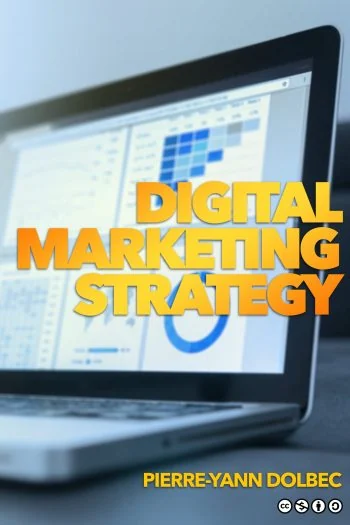
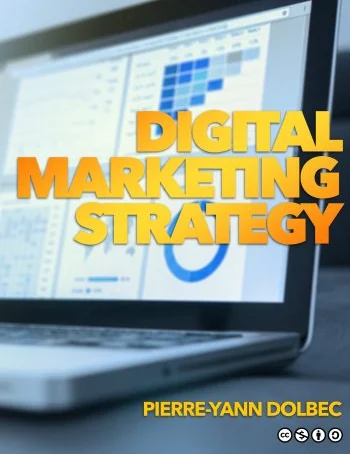
Teaching: crop the Digital Marketing Strategy cover to match the other cover
Top 71 px removed so both covers share one shape and sit at equal height.

Claude-Session: https://claude.ai/code/session_019wVdqsEFeF5Lgx2HjDF92J

diff --git a/fr/teaching/index.html b/fr/teaching/index.html
@@ -39,7 +39,7 @@
 <h1 class="page">Enseignement</h1>
 <div class="page-intro"><p>J&#x27;enseigne le marketing comme une pratique. Mes cours développent des compétences concrètes tout en amenant les étudiants à réfléchir de façon critique aux dimensions sociales et culturelles du comportement des consommateurs : ce que l&#x27;on met en marché, pourquoi, et avec quelles conséquences.</p><p>Les étudiants se préparent avant le cours grâce à des lectures, des balados, des vidéos et des transcriptions, afin que le temps en classe serve à l&#x27;application. Chaque séance s&#x27;ouvre sur des questions qui vérifient la compréhension, puis passe à des exercices fondés sur des cas réels et fictifs : analyser des campagnes numériques, développer des personas, bâtir des stratégies de contenu. Dans mon cours de marketing numérique, les étudiants créent des sites web et des campagnes pour le prélancement de produits fictifs ; certains ont attiré des milliers d&#x27;abonnés ou l&#x27;attention des médias.</p><p>Je recueille de la rétroaction pendant et après chaque session, et j&#x27;explique aux étudiants comment leurs commentaires ont modifié le cours.</p></div>
 <h2>Manuels libres d'accès</h2>
-<div class="books"><div class="book"><img width="350" height="525" src="/assets/img/dms-cover.webp" alt="Couverture de Digital Marketing Strategy" loading="lazy" style="width:100%;height:auto;border:1px solid var(--line)"><div><div class="kicker">2021</div><h3 style="margin-top:6px"><span lang="en">Digital Marketing Strategy</span></h3>
+<div class="books"><div class="book"><img width="350" height="454" src="/assets/img/dms-cover.webp" alt="Couverture de Digital Marketing Strategy" loading="lazy" style="width:100%;height:auto;border:1px solid var(--line)"><div><div class="kicker">2021</div><h3 style="margin-top:6px"><span lang="en">Digital Marketing Strategy</span></h3>
 <p style="color:#333;font-size:16px">Un manuel libre et gratuit qui donne aux étudiants un cadre pour planifier et mener le marketing en ligne. Plus de 3 000 étudiants l&#x27;ont utilisé dans plusieurs universités en 2024, avec balados, vidéos et transcriptions.</p>
 <a class="btn o" href="https://opentextbooks.concordia.ca/digitalmarketing/" target="_blank" rel="noopener">Lire gratuitement en ligne&nbsp;↗<span class="sr-only"> (s’ouvre dans un nouvel onglet)</span></a></div></div><div class="book"><img width="480" height="622" src="/assets/img/ai-cover.webp" alt="Couverture de Artificial Intelligence and Marketing" loading="lazy" style="width:100%;height:auto;border:1px solid var(--line)"><div><div class="kicker">2024</div><h3 style="margin-top:6px"><span lang="en">Artificial Intelligence and Marketing</span></h3>
 <p style="color:#333;font-size:16px">Un manuel gratuit sur le fonctionnement de l&#x27;intelligence artificielle et son usage en marketing, écrit pour les étudiants en gestion et les gestionnaires.</p>

diff --git a/teaching/index.html b/teaching/index.html
@@ -39,7 +39,7 @@
 <h1 class="page">Teaching</h1>
 <div class="page-intro"><p>I teach marketing as a practice. My courses build real-world marketing skills while asking students to think critically about the social and cultural side of consumer behaviour: what we market, why, and with what consequences.</p><p>Students prepare before class through readings, podcasts, videos and transcripts, so that class time goes to application. Each session opens with questions that check understanding, then moves to exercises built on real and fictional cases, such as analyzing digital campaigns, developing consumer personas and building content strategies. In my digital marketing course, students create websites and campaigns for fictional product pre-launches; some have gained thousands of social media followers or press attention.</p><p>I collect feedback during and after each semester, and I tell students how their input changed the course.</p></div>
 <h2>Open textbooks</h2>
-<div class="books"><div class="book"><img width="350" height="525" src="/assets/img/dms-cover.webp" alt="Cover of Digital Marketing Strategy" loading="lazy" style="width:100%;height:auto;border:1px solid var(--line)"><div><div class="kicker">2021</div><h3 style="margin-top:6px">Digital Marketing Strategy</h3>
+<div class="books"><div class="book"><img width="350" height="454" src="/assets/img/dms-cover.webp" alt="Cover of Digital Marketing Strategy" loading="lazy" style="width:100%;height:auto;border:1px solid var(--line)"><div><div class="kicker">2021</div><h3 style="margin-top:6px">Digital Marketing Strategy</h3>
 <p style="color:#333;font-size:16px">A free, open textbook that gives students a framework for planning and running marketing online. More than 3,000 students used it across universities in 2024, with companion podcasts, videos and transcripts.</p>
 <a class="btn o" href="https://opentextbooks.concordia.ca/digitalmarketing/" target="_blank" rel="noopener">Read free online&nbsp;↗<span class="sr-only"> (opens in a new tab)</span></a></div></div><div class="book"><img width="480" height="622" src="/assets/img/ai-cover.webp" alt="Cover of Artificial Intelligence and Marketing" loading="lazy" style="width:100%;height:auto;border:1px solid var(--line)"><div><div class="kicker">2024</div><h3 style="margin-top:6px">Artificial Intelligence and Marketing</h3>
 <p style="color:#333;font-size:16px">A free textbook on how artificial intelligence works and how marketers can use it, written for business students and managers.</p>
